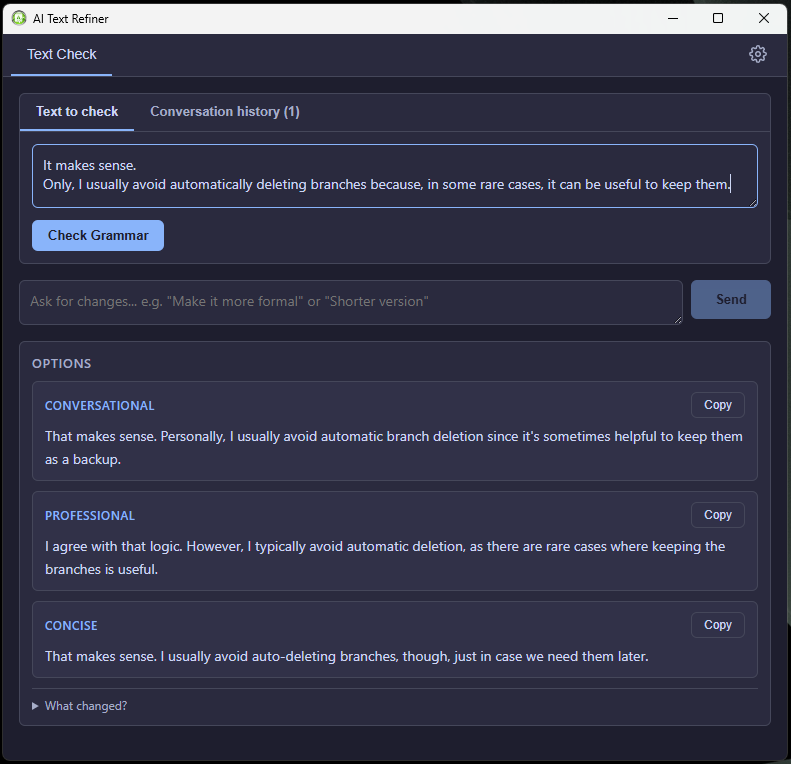
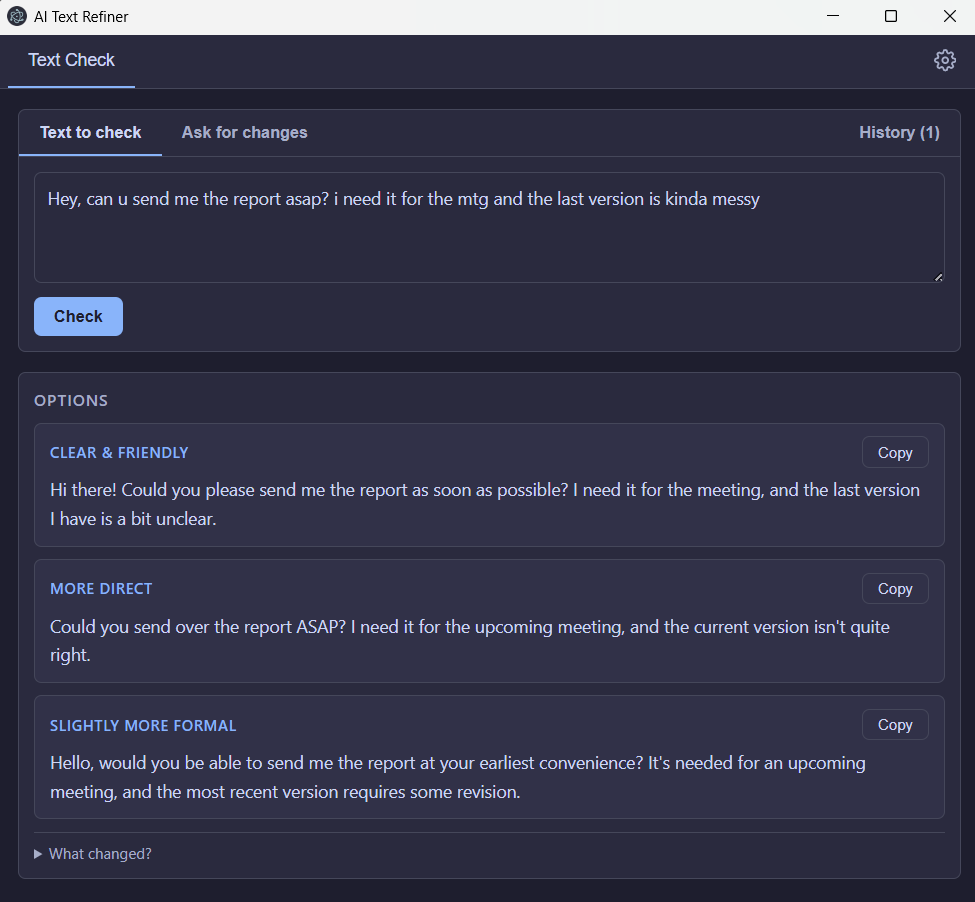
Improve UI. Set "Ask for changes" section as a tab

Changed region(s): [[0.0, 0.0, 1.0, 1.0], [0.8799, 0.7827, 0.9406, 0.8429]]

diff --git a/src/renderer/src/views/MainView/MainView.tsx b/src/renderer/src/views/MainView/MainView.tsx
@@ -24,6 +24,7 @@ export function MainView({ settings }: Props) {
     handleInputChange,
     handleFollowUpChange,
     showEditorTab,
+    showFollowUpTab,
     showHistoryTab
   } = useMainView(settings)
 
@@ -43,12 +44,20 @@ export function MainView({ settings }: Props) {
           >
             Text to check
           </button>
+          {session.hasSession && session.result && (
+            <button
+              className={`tabs__btn${activeTab === 'followup' ? ' tabs__btn--active' : ''}`}
+              onClick={showFollowUpTab}
+            >
+              Ask for changes
+            </button>
+          )}
           {messageHistory.length > 0 && (
             <button
-              className={`tabs__btn${activeTab === 'history' ? ' tabs__btn--active' : ''}`}
+              className={`tabs__btn tabs__btn--right${activeTab === 'history' ? ' tabs__btn--active' : ''}`}
               onClick={showHistoryTab}
             >
-              Conversation history ({messageHistory.length})
+              History ({messageHistory.length})
             </button>
           )}
         </div>
@@ -66,7 +75,7 @@ export function MainView({ settings }: Props) {
               disabled={session.loading}
             />
             <button onClick={check} disabled={!isEnabled} className="main-view__check-btn">
-              {session.loading && !session.result ? 'Checking...' : 'Check Grammar'}
+              {session.loading && !session.result ? 'Checking...' : 'Check'}
             </button>
           </div>
         )}
@@ -92,27 +101,27 @@ export function MainView({ settings }: Props) {
             )}
           </div>
         )}
-      </section>
 
-      {session.hasSession && session.result && (
-        <section className="main-view__chat">
-          <textarea
-            value={followUpText}
-            onChange={handleFollowUpChange}
-            onKeyDown={handleFollowUpKeyDown}
-            placeholder='Ask for changes... e.g. "Make it more formal" or "Shorter version"'
-            rows={2}
-            disabled={session.loading}
-          />
-          <button
-            onClick={followUp}
-            disabled={session.loading || !followUpText.trim()}
-            className="main-view__send-btn"
-          >
-            {session.loading && session.result ? 'Sending...' : 'Send'}
-          </button>
-        </section>
-      )}
+        {activeTab === 'followup' && (
+          <div className="tabs__content">
+            <textarea
+              value={followUpText}
+              onChange={handleFollowUpChange}
+              onKeyDown={handleFollowUpKeyDown}
+              placeholder='Ask for changes... e.g. "Make it more formal" or "Shorter version"'
+              rows={2}
+              disabled={session.loading}
+            />
+            <button
+              onClick={followUp}
+              disabled={session.loading || !followUpText.trim()}
+              className="main-view__send-btn"
+            >
+              {session.loading && session.result ? 'Sending...' : 'Send'}
+            </button>
+          </div>
+        )}
+      </section>
 
       {session.loading && <div className="main-view__loading">Analysing with Gemini...</div>}
 

diff --git a/src/renderer/src/views/MainView/useMainView.ts b/src/renderer/src/views/MainView/useMainView.ts
@@ -8,7 +8,7 @@ export function useMainView(settings: AppSettings) {
   const [inputText, setInputText] = useState('')
   const [followUpText, setFollowUpText] = useState('')
   const [messageHistory, setMessageHistory] = useState<string[]>([])
-  const [activeTab, setActiveTab] = useState<'editor' | 'history'>('editor')
+  const [activeTab, setActiveTab] = useState<'editor' | 'followup' | 'history'>('editor')
   const textareaRef = useRef<HTMLTextAreaElement>(null)
   const session = useTextRefinement(settings)
 
@@ -91,6 +91,7 @@ export function useMainView(settings: AppSettings) {
     setFollowUpText(e.target.value)
 
   const showEditorTab = () => setActiveTab('editor')
+  const showFollowUpTab = () => setActiveTab('followup')
   const showHistoryTab = () => setActiveTab('history')
 
   return {
@@ -109,6 +110,7 @@ export function useMainView(settings: AppSettings) {
     handleInputChange,
     handleFollowUpChange,
     showEditorTab,
+    showFollowUpTab,
     showHistoryTab
   }
 }

diff --git a/src/renderer/src/views/MainView/MainView.css b/src/renderer/src/views/MainView/MainView.css
@@ -88,6 +88,10 @@
   color: var(--text-primary);
 }
 
+.tabs__btn--right {
+  margin-left: auto;
+}
+
 .tabs__btn--active {
   color: var(--text-primary);
   border-bottom-color: var(--accent);

diff --git a/README.md b/README.md
@@ -1,6 +1,6 @@
 # AI Text Refiner
 
-A lightweight Windows system tray application that can improve your text using Google Gemini AI. Copy any text, press a hotkey, and instantly get multiple improved variants — perfect for polishing workplace chat messages before sending them.
+A lightweight Windows system tray application that can improve your text using Google Gemini AI. Copy any text, press a hotkey, and instantly get improved variants, then refine the result using the dedicated "Ask for changes" tab without starting over.
 
 ![main window](docs/images/screenshot-main-window.png)
 
@@ -8,7 +8,8 @@ A lightweight Windows system tray application that can improve your text using G
 
 - **One-hotkey workflow** — press `Ctrl+Shift+Space` (customizable) from any app to open the refiner window with your clipboard text pre-filled
 - **3 style variants** — each check returns three rewritten options (e.g. Clear, Professional, Concise) so you can pick the tone that fits
-- **Follow-up refinements** — ask for further changes in a conversational style (e.g. "Make it shorter", "More casual") without starting over
+- **Follow-up refinements** — use the dedicated "Ask for changes" tab after a check to request edits in a conversational style (e.g. "Make it shorter", "More formal")
+- **History tab** — review previous input and follow-up requests
 - **One-click copy** — click any variant to copy it to your clipboard, ready to paste
 - **Configurable Gemini model** — choose between Gemini 2.5 Flash Lite, 2.5 Flash, 2.5 Pro, 3.1 Flash Lite, and 3.1 Pro
 - **Customizable hotkeys** — record a new global hotkey and a submit shortcut directly in Settings
@@ -47,8 +48,8 @@ No billing account or credit card is required for the free tier. You can check y
 2. Copy any text to your clipboard (`Ctrl+C`)
 3. Press `Ctrl+Shift+Space` (or your custom hotkey) — the app window opens with your clipboard text already loaded
 4. Press `Ctrl+Enter` to refine — you'll get three improved variants
-5. Not happy with the results? Type feedback in the "Ask for changes…" field (e.g. "Make it shorter", "More formal") and submit again. Repeat until you're satisfied
-   **Tip:** Use the History tab to review your previous refinement requests.
+5. Not happy with the results? switch to the "Ask for changes" tab, type feedback (e.g. "Make it shorter", "More formal"), and submit again. Repeat until you're satisfied.
+   **Tip:** Use the right-aligned History tab to review your previous refinement requests.
 6. Click any variant to copy it to your clipboard
 7. Press `Escape` or click away to hide the window
 
